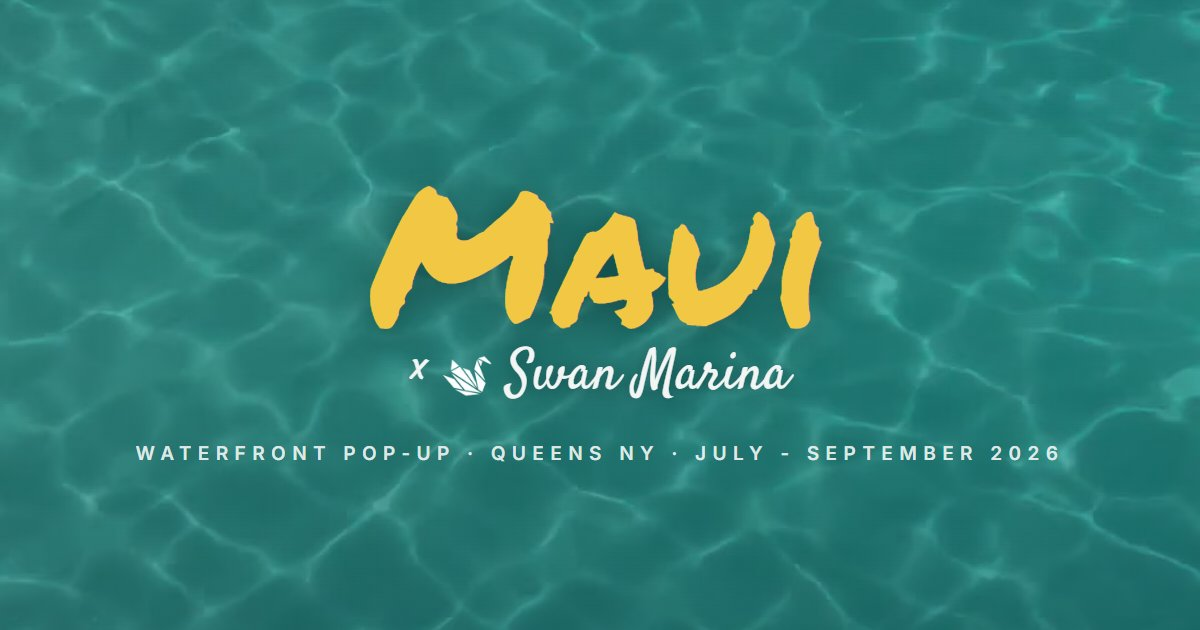
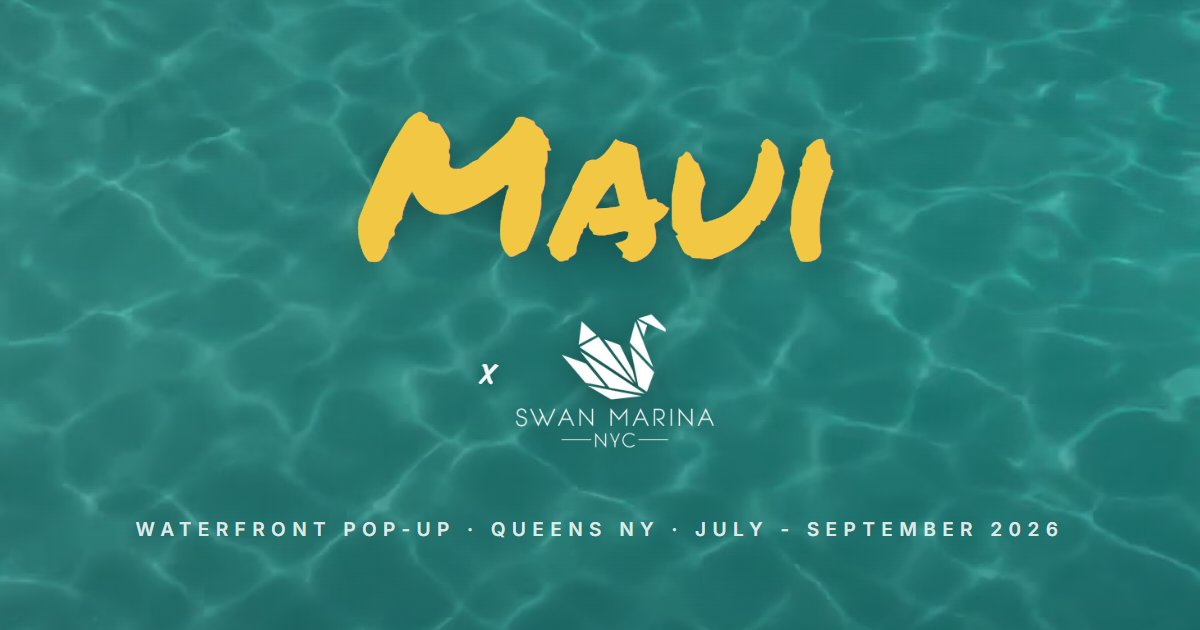
Hero: both brands at equal size; share card carries the full lockup
The Swan Marina lockup grows to clamp(160-258px) so it holds the same
visual weight as MAUI, with the x scaled to bridge them. The OG share
card drops the bird-plus-script rendering for the official lockup at
210px, so texted links show both brands as themselves.

Claude-Session: https://claude.ai/code/session_019BzEs3UGcFuVmc4iCVu4pE

diff --git a/index.html b/index.html
@@ -161,7 +161,7 @@
   }
   .hero .wordmark2{
     font-family:'Satisfy',cursive;
-    font-size:clamp(30px,4.8vw,62px);
+    font-size:clamp(38px,6vw,80px);
     color:var(--bone);margin-top:2px;
     /* Q descender: Satisfy loops it deep, reserve or it clips */
     line-height:1.15;padding-bottom:10px;
@@ -169,7 +169,7 @@
     display:flex;align-items:center;justify-content:center;flex-wrap:wrap;
   }
   .hero .wordmark2 .swanlockup{
-    height:clamp(110px,13vw,170px);width:auto;flex:none;margin-left:6px;
+    height:clamp(160px,20vw,258px);width:auto;flex:none;margin-left:10px;
     filter:drop-shadow(0 3px 16px rgba(0,0,0,.45));
   }
   .hero .rope{
